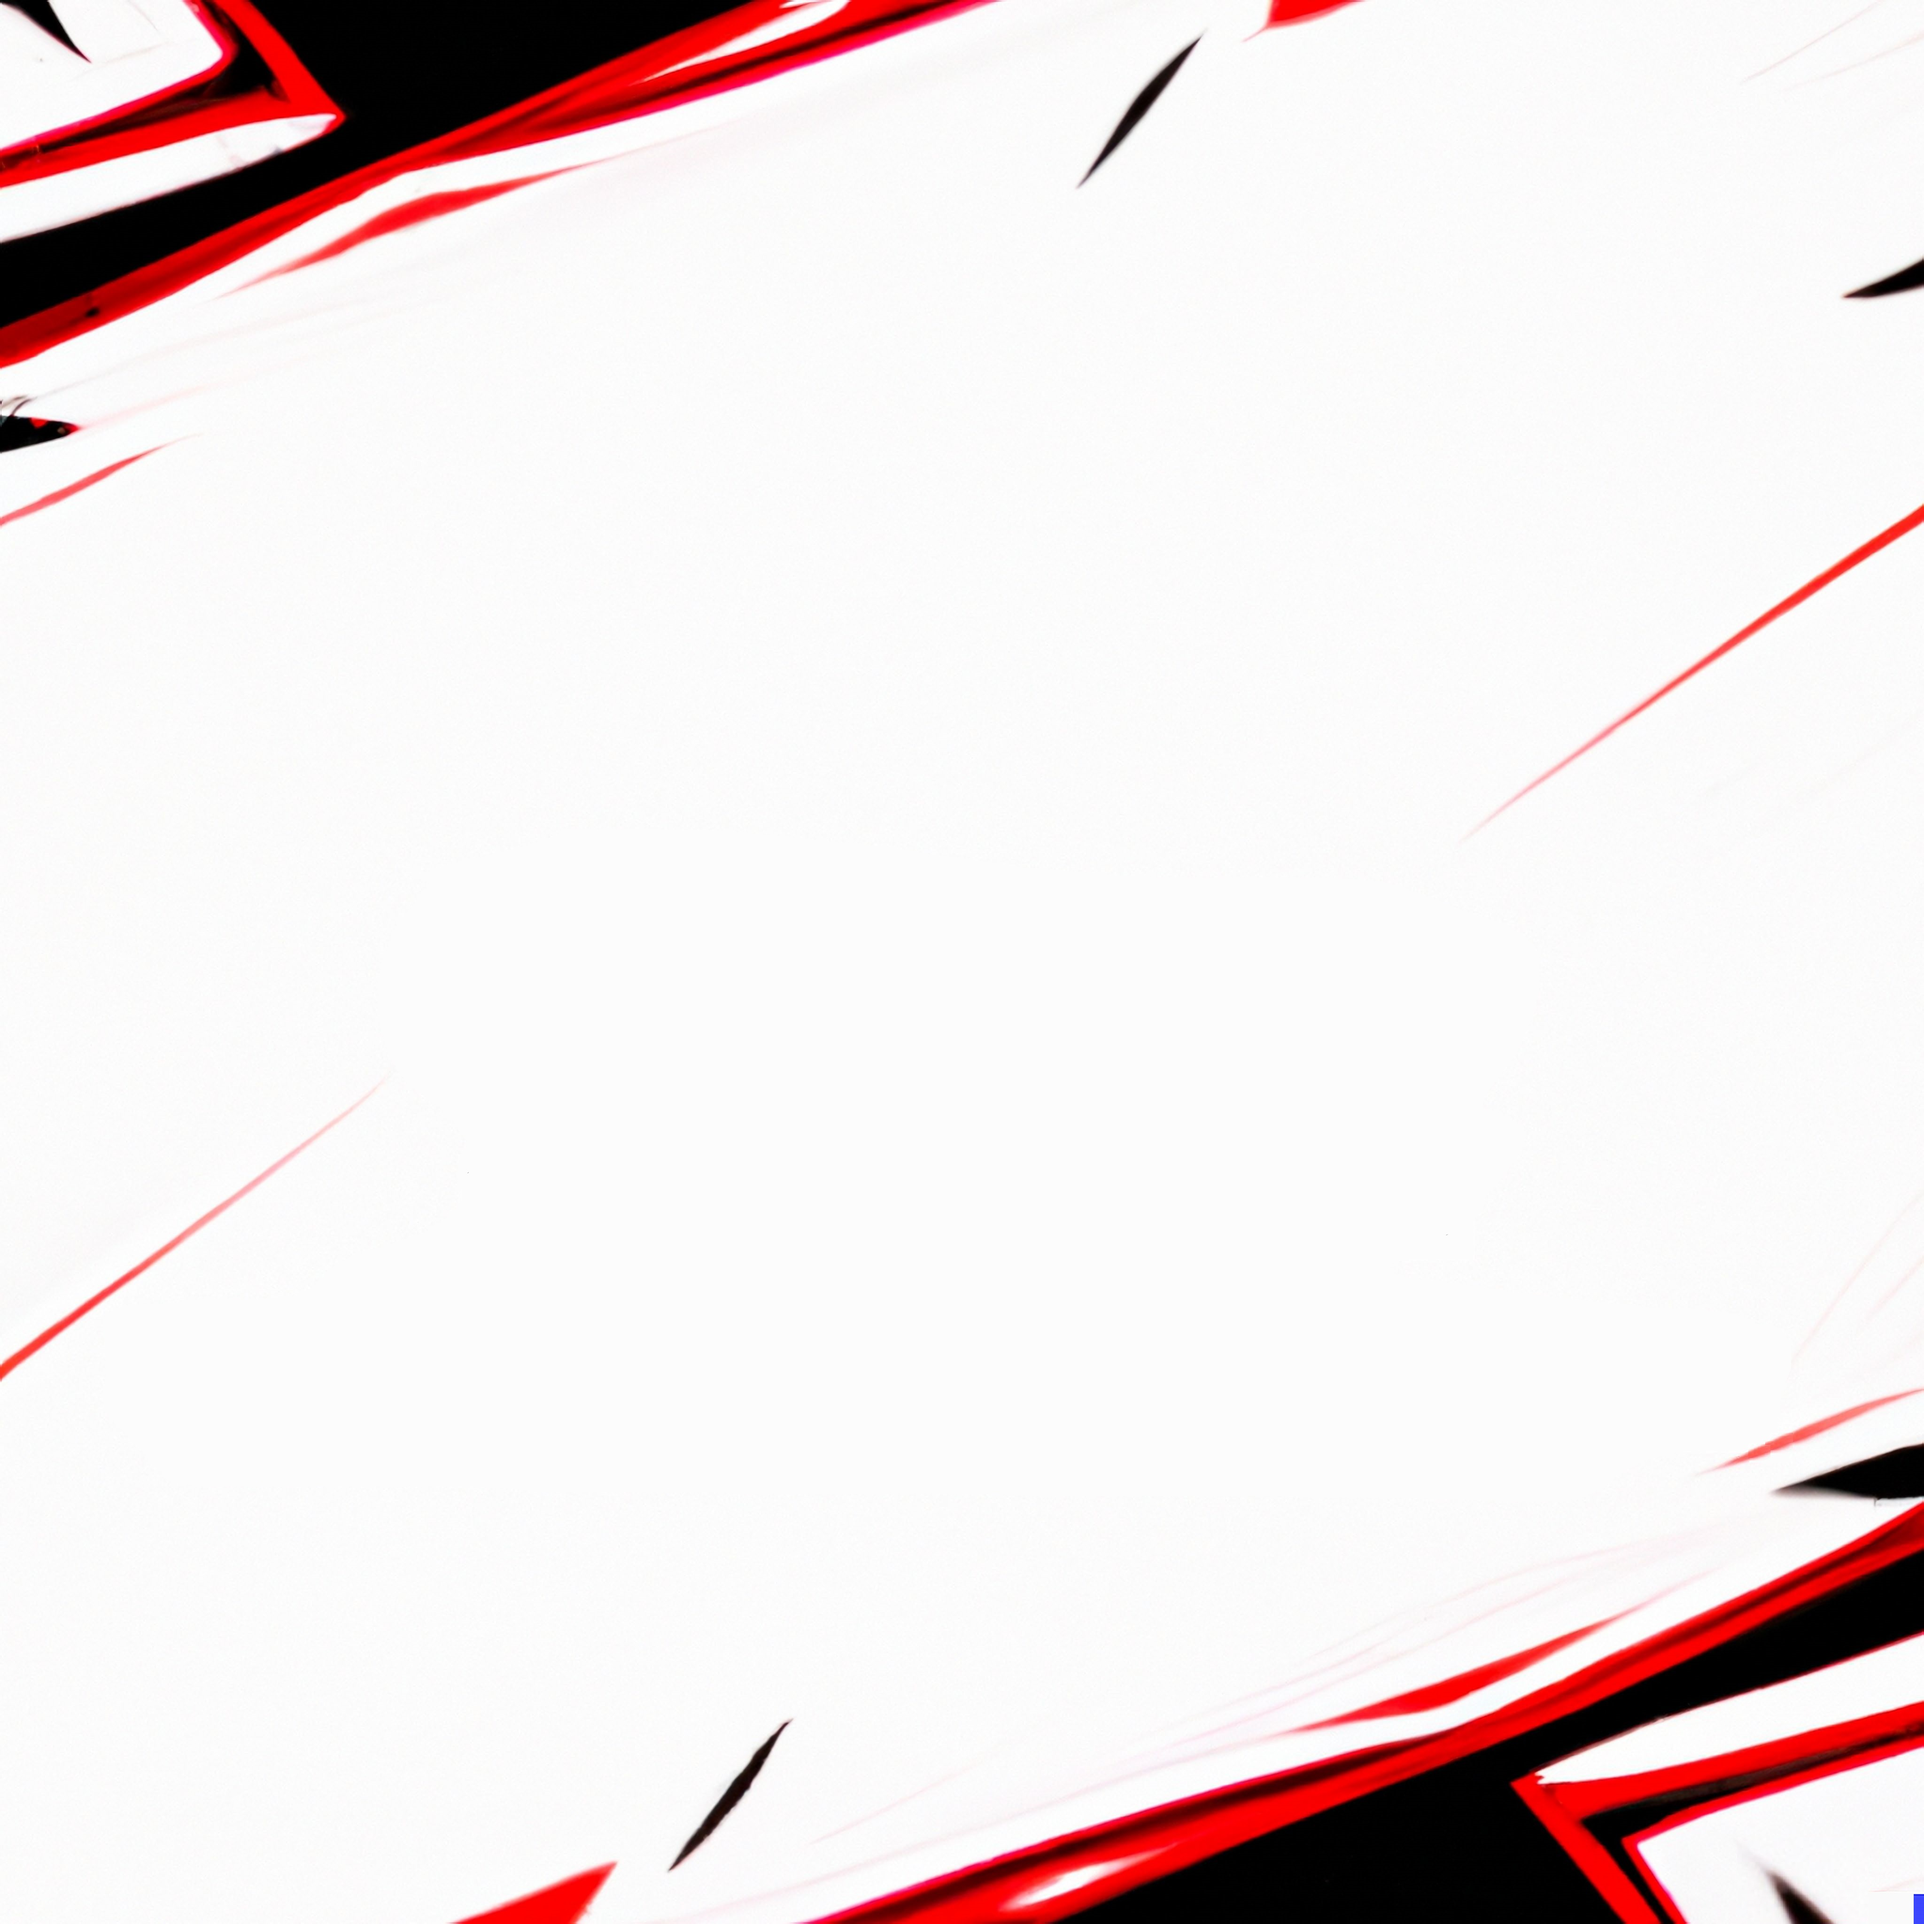
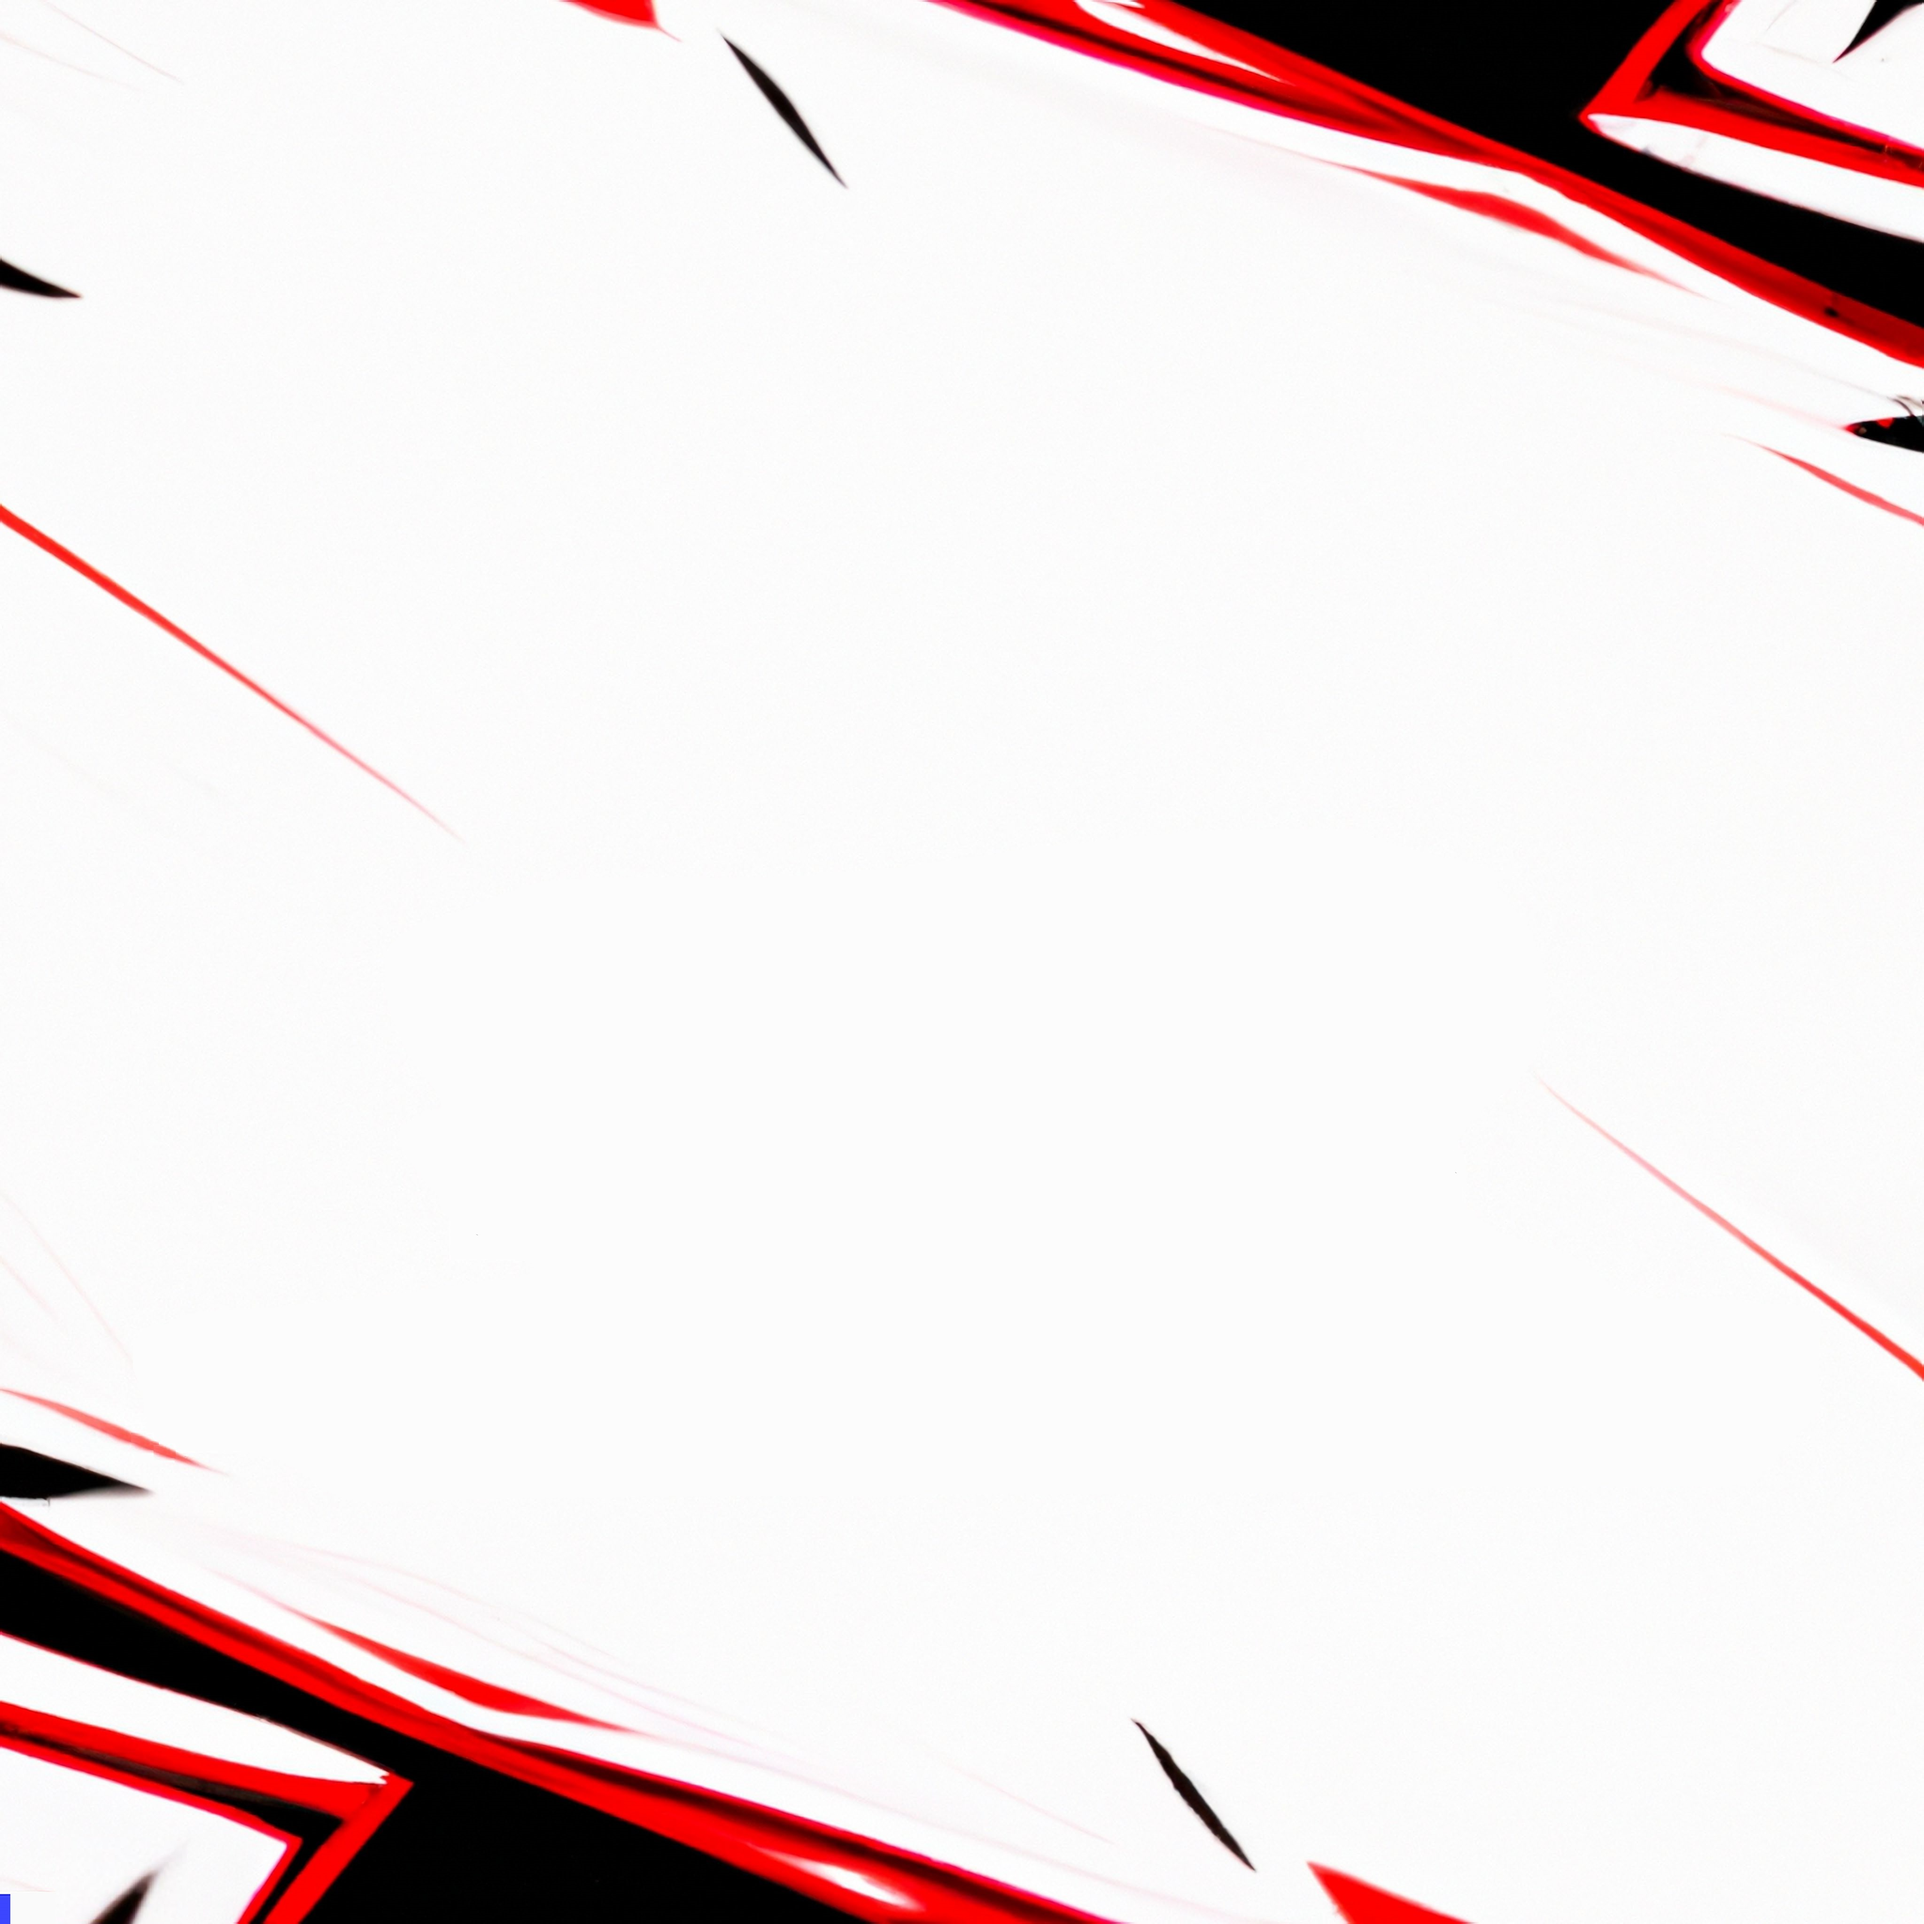
Fix image's size

diff --git a/index.html b/index.html
@@ -18,12 +18,15 @@
             <a href="#">Funcional</a>
             <a href="#">Zumba</a>
             <a href="#">Defensa Personal Integral</a>
+            <a href="#">Contacto</a>
         </nav>
     </header>
     <main>
         <section class="presentacion">
             <h2>Sobre Nosotros</h2>
-            <p>Fundado en 2022, 300 Academia de Boxeo, nace como un sueño hecho realidad. Tras practicar en su juventud
+            <p>Fundado en 2022,<b><i>"300 Academia de Boxeo"</i></b>, nace como un sueño hecho realidad. Tras
+                practicar en su
+                juventud
                 boxeo e inculcarle el amor hacia este deporte a su hijo más pequeño, el fundador Suárez abre en el
                 balneario de Salinas un gimnasio para compartir con la comunidad este y otros deportes.
             </p>
@@ -74,65 +77,7 @@
             </div>
         </div>
 
-
-
-
-
-
-        <form action="" method="">
-            <label for="email"></label>
-            <input type="email" name="email" id="email" required placeholder="Update in your inbox..."
-                oninvalid="this.setCustomValidity('Please a valid email')" oninput="this.setCustomValidity('')" />
-            <button class="button" type="submit" value="">Go</button>
-        </form>
         <p>Creado 2022 por Daniel Chacón & Cecilia Suárez.</p>
         <p>Todos los derechos reservados.</p>
     </footer>
-
-
-
-
-
-</body>
-
-
-
-<footer>
-    <div class="logos">
-        <img class="logoFooter" src="img/Logo-Footer.png" alt="LogoFooter">
-
-        <div>
-            <a href="https://www.facebook.com/" target="_blank"><i class="fa-brands fa-facebook-f"></i></a>
-            <a href="https://www.youtube.com/" target="_blank"><i class="fa-brands fa-youtube"></i></a>
-            <a href="https://twitter.com/?lang=es" target="_blank"><i class="fa-brands fa-twitter"></i></a>
-            <a href="https://www.pinterest.es/" target="_blank"><i class="fa-brands fa-pinterest"></i></a>
-            <a href="https://www.instagram.com/" target="_blank"><i class="fa-brands fa-instagram"></i></a>
-        </div>
-    </div>
-
-    <div class="navegacion">
-        <ul>
-            <li><a href="#">Home</a></li>
-            <li><a href="#">Pricing</a></li>
-            <li><a href="#">Products</a></li>
-            <li><a href="#">About Us</a></li>
-
-        </ul>
-
-        <ul>
-            <li><a href="#">Careers</a></li>
-            <li><a href="#">Community</a></li>
-            <li><a href="#">Privacy Policy</a></li>
-        </ul>
-    </div>
-
-
-    <form action="" method="">
-        <label for="email"></label>
-        <input type="email" name="email" id="email" required placeholder="Update in your inbox..."
-            oninvalid="this.setCustomValidity('Please a valid email')" oninput="this.setCustomValidity('')" />
-        <button class="button" type="submit" value="">Go</button>
-    </form>
-    <p>Copyright 2020. All Rights Reserved</p>
-</footer>
 </body>

diff --git a/styles/main.css b/styles/main.css
@@ -1,9 +1,10 @@
 body {
     background-image: url("../img/main_background.jpeg");
     background-size: cover;
-    background-repeat: repeat;
+    background-repeat: no-repeat;
 }
 
 .logo {
-    size: 100px, 100px;
+    width: 30%;
+    height: 30%;
 }
